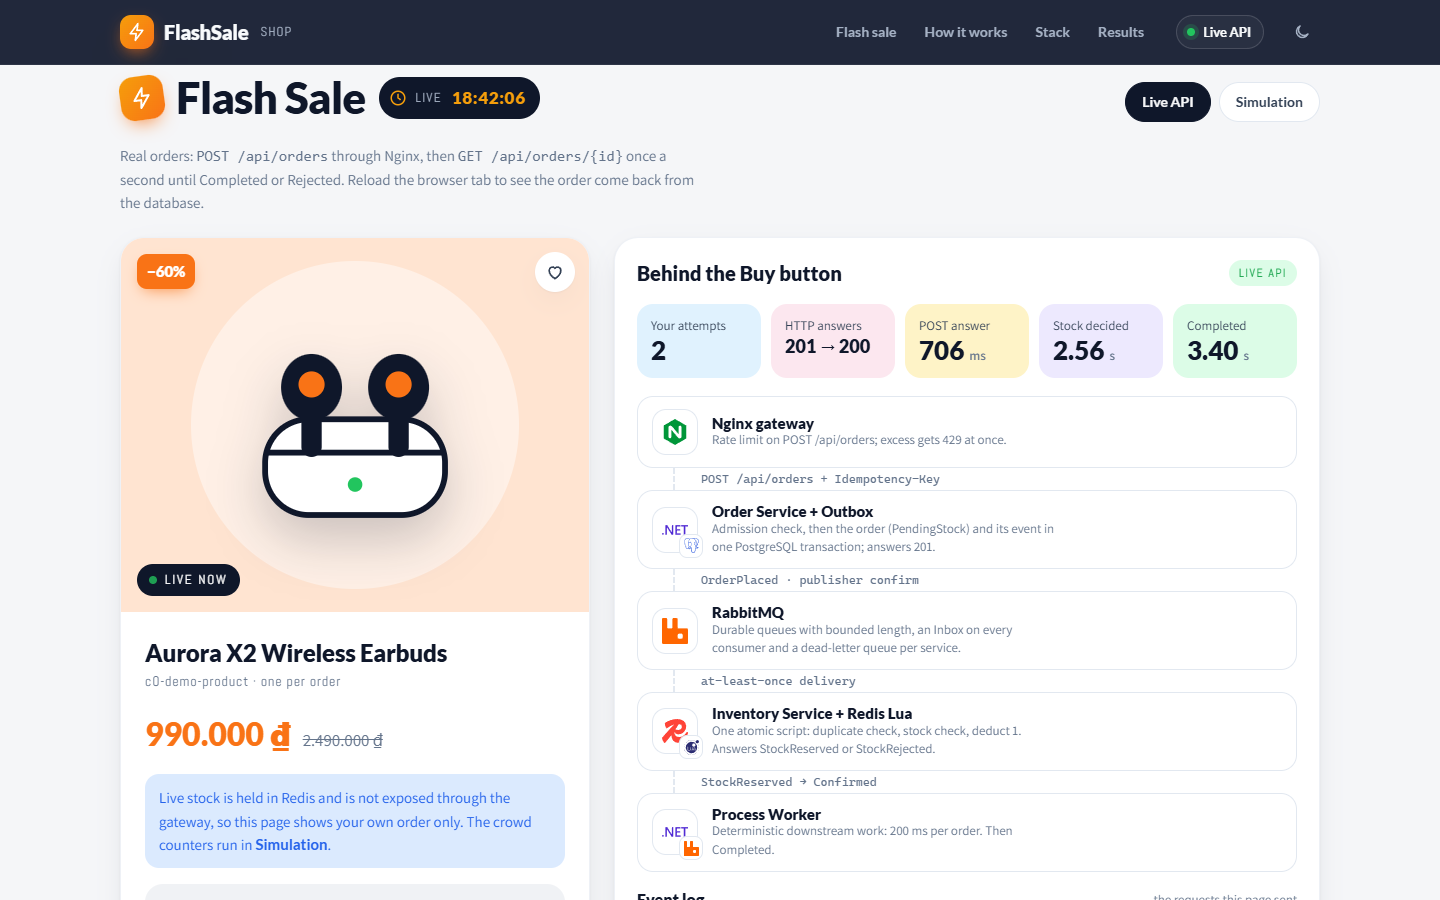
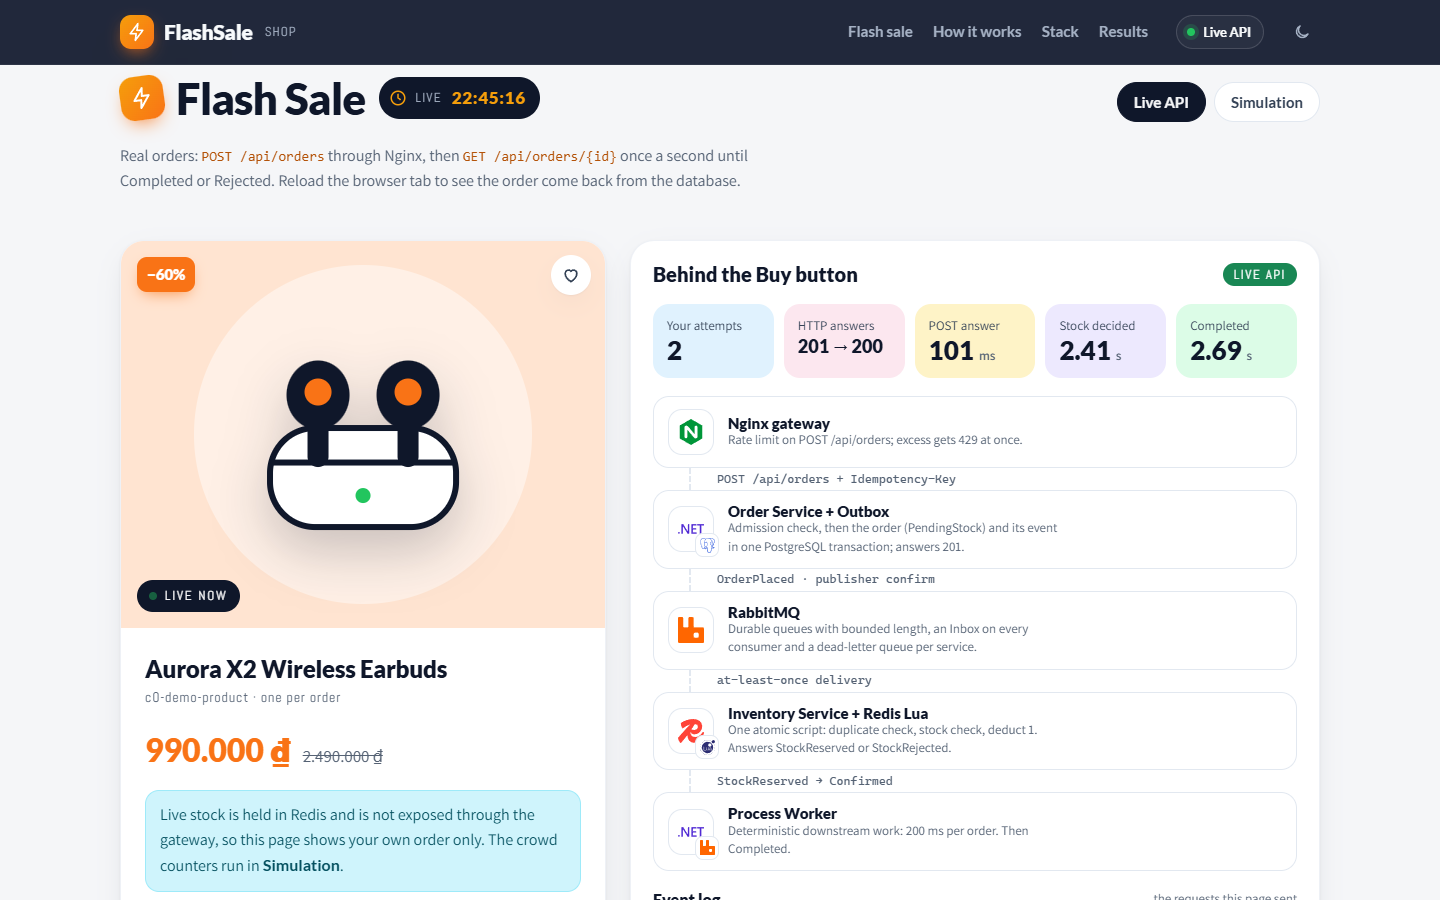
Demo page: live screenshots 02, 08 and 11 retaken on the local stack with the Bootstrap styling; README lists the orders behind them

diff --git a/demo-results/ui/README.md b/demo-results/ui/README.md
@@ -57,14 +57,14 @@ MIT `LICENSE`, so it runs without internet:
 Only the Lato, Assistant and Abel fonts come from Google Fonts. Without
 internet the page falls back to system fonts.
 
-`screenshots/` holds desktop, phone and dark-mode screenshots.
-- 01, 04, 05, 06, 07 and 10 were retaken on 19 November 2026 with the
-  Bootstrap styling. They show the simulation and the static sections.
-- The live-mode shots (02, 08 and 11) are from 7 November 2026 and show the
-  earlier styling. They come from real orders on the local stack:
-  - e51d5af9 on c0-demo-product went to Completed;
-  - 589f8862 on the same product and 963c7241 on flash-product-1 were
-    Rejected, as both were sold out in Redis.
+`screenshots/` holds desktop, phone and dark-mode screenshots, all taken on
+19 November 2026 with the Bootstrap styling.
+- 01, 04, 05, 06, 07 and 10 show the simulation and the static sections.
+- The live-mode shots (02, 08 and 11) come from real orders on the local stack:
+  - 63a546b7 on c0-demo-product went to Completed. A second POST with the same
+    Idempotency-Key returned 200 and the same order.
+  - fe654b6d on the same product was Rejected, as its one unit was gone.
+  - 8662a96d on flash-product-1 (phone) went to Completed.
 
 Logos are from Simple Icons 13.21.0 (CC0), inlined in the page. Fonts are
 Lato, Assistant and Abel from Google Fonts, with system fonts as fallback.
